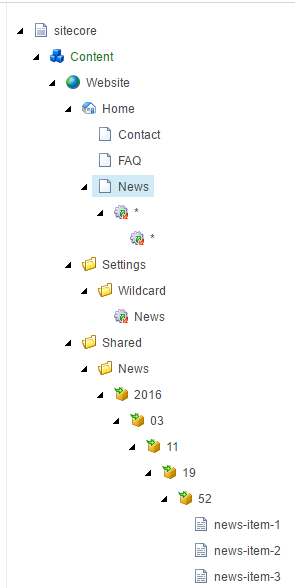
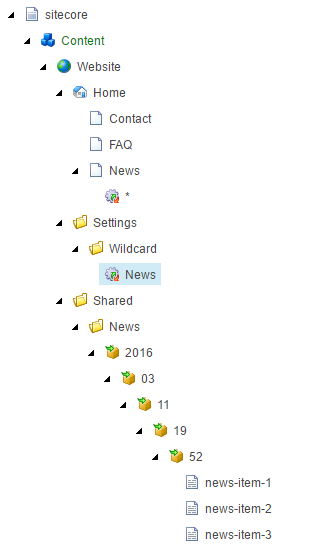
Updated readme

Changed region(s): [[0.0305, 0.0, 0.9458, 1.0]]

diff --git a/readme.md b/readme.md
@@ -5,6 +5,9 @@
 <p>
 In the Sitecore.SharedSource.Wildcard.config you will find the wildcard where you are able to set the wildcard setting folder path for different websites. Just give the name of the setting the same name as the site definition name and set a relative path.
 </p>
+
+<sub>Sitecore.SharedSource.Wildcard.config</sub>
+
 <code>
     &lt;wildcard&gt;<br />
       &lt;settings&gt;<br />
@@ -13,23 +16,29 @@ In the Sitecore.SharedSource.Wildcard.config you will find the wildcard where yo
     &lt;/wildcard&gt;
 </code>
 
-## Create the datasource folder
-<p>Just create a folder or bucket where you want to store pages which could be shared among mutiple websites.</p>
 
-## Create and configure the wildcard setting
+<sub>Figure 1</sub>
+![Sitecore tree](https://raw.githubusercontent.com/cvandeluitgaarden/Sitecore.SharedSource.Wildcard/master/resources/readme/sitecore_tree.png)
+
+<sub>Figure 2</sub>
+![Sitecore wildcard setting](https://raw.githubusercontent.com/cvandeluitgaarden/Sitecore.SharedSource.Wildcard/master/resources/readme/sitecore_wildcard.png)
+
+<sub>Figure 3</sub>
+![Sitecore tree](https://raw.githubusercontent.com/cvandeluitgaarden/Sitecore.SharedSource.Wildcard/master/resources/readme/sitecore_wildcard_setting.png)
+
+## Create the datasource folder
+<p>Create a folder or bucket to save pages which you want to share among mutiple websites.</p><p>Example: as you van see in figure 1 there is a bucket folder /sitecore/content/shared/news in which you store the news items.</p>
+
+## Create and configure the wildcard
 <p>Create an item named * within your website(s) based on the template 
 /sitecore/templates/modules/wildcard/wildcard. Set the field datasource of 
 the * item to the root of your datasource folder or bucket.</p>
-<sub>
-Example /sitecore/content/Website/Home/News/* points to /sitecore/content/Website/Shared/News
-</sub>
+<p>Example: as you can see in figure 1 i created a wildcard setting (/sitecore/content/website/settings/wildcard/news). In figure 2 you can see i pointed the datasource field to the datasource folder.</p>
+
 
 ## Create and configure the wildcard datasource setting
-<p>Create a new wildcard datasource setting item in the folder which is specified in the config file. Set the field item wildcard to the created * item and the field template to the template which the folder or bucket contains.</p>
-
-
-## How to code
-
+<p>Create a new wildcard datasource setting item based on template /sitecore/templates/System/Modules/Wildcard/WildcardSetting in the folder which is specified in the config file. Set the field item wildcard to the created * item and the field template to the template which the folder or bucket contains.</p>
+<p>Example: in figure 1 i created a setting in /sitecore/content/Website/Settings/Wildcard/News. In figure 3 you can see i pointed the field Item to the wildcard item and the field DatasourceTemplate to the template of the item which should be placed on the wildcard.</p>
 
 
 
